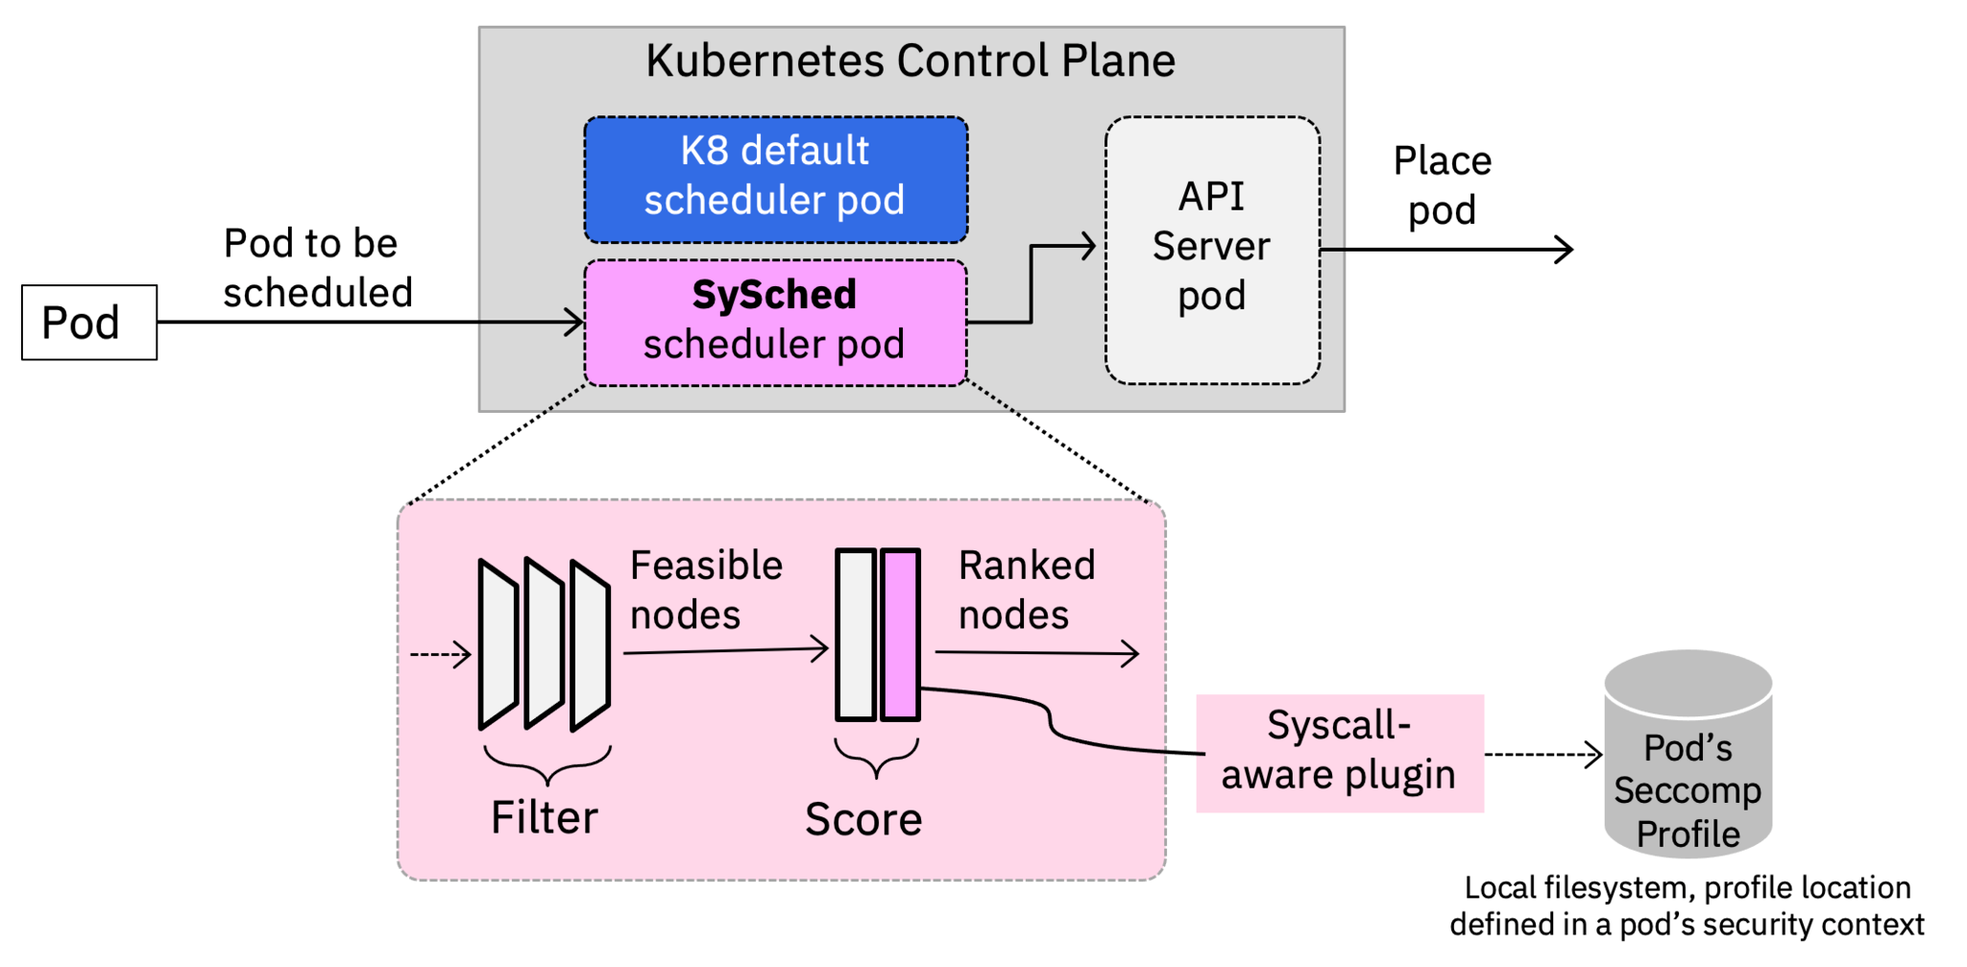
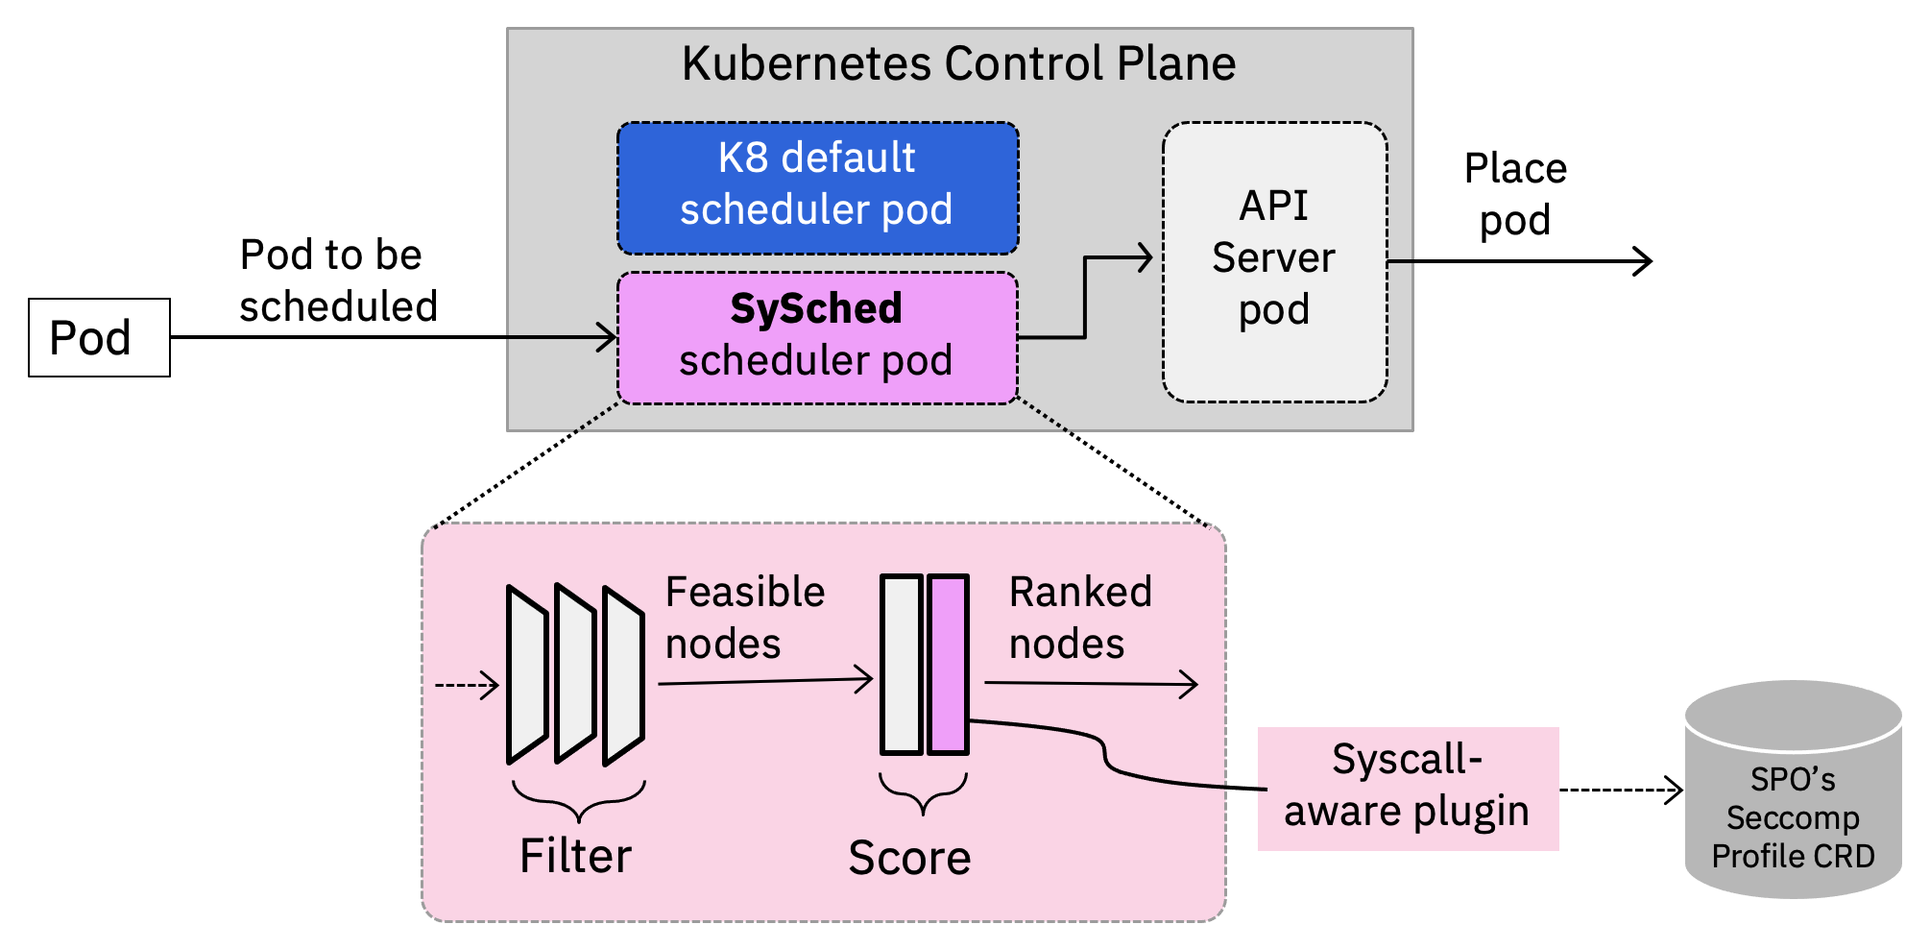
edits to kep

Changed region(s): [[0.1851, 0.4858, 0.9871, 0.9717], [0.0, 0.0, 0.8637, 0.4555], [0.3085, 0.0304, 0.6478, 0.0911]]

diff --git a/kep/399-sysched-scoring/README.md b/kep/399-sysched-scoring/README.md
@@ -2,33 +2,23 @@
 
 ## Summary
 
-We propose the use of pod placement as a way to improve the security of nodes in a cluster. Specifically, we propose a new scheduler scoring plugin (SySched) that enables the ranking of feasible nodes based on the relative risks of pods' system call usage. Key to this risk calculation is the Excess System Call (ExS) metric, which measures the amount of excess system call a pod is exposed to on a given node. The benefits of this approach are the following:
+We propose the use of pod placement as a way to improve the security of nodes in a cluster. Specifically, we propose a new scheduler scoring plugin (SySched) that enables the ranking of feasible nodes based on the relative risks of pods' system call usage. Key to this risk calculation is the Extraneous System Call (ExS) metric &mdash; a metric defined by us &mdash; which measures the amount of excess system call a pod is exposed to on a given node. The benefits of this approach are the following:
 
-1.  reduce the number of victim pods that can be impacted by a "bad" pod
-2.  reduce the number of nodes in a cluster that can be impacted by a "bad" pod
-3.  minimizes the "excess" system calls across all pods on a node and all nodes in a cluster
-4.  minimizes attack surface areas of a node (reduce needed system calls on a node)
+1. reduce the number of victim pods that can be impacted by a "bad" pod, where a "bad" pod uses one or more system calls that are vulnerable and potentially exploitable to compromise the host kernel
+2. reduce the number of nodes in a cluster that can be impacted by a "bad" pod
+3. minimizes the "excess" system calls a pod may experience during its lifecycle, hence reduces needed system calls on a node, which in turns reduces the attack surface areas of a node
 
 
 ## Motivation
 
-Securing  Kubernetes workloads despite the inevitability of vulnerabilities is a critical  task. Particularly devastating are vulnerabilities in the host kernel that are exploitable via system calls to escalate privileges and break out of containment, as demonstrated by the infamous Dirty COW or the recent Dirty Pipe vulnerability. As a result, a pod's security depends on its neighboring pods and their system call usage since pods share a highly-privileged kernel on a host.  Yet cloud providers strive to increase pod density to improve host utilization by multiplexing workloads from different users and tenants on the same set of physical nodes, providing ample opportunities for distrusting containers to become "bad neighbors."
+Securing Kubernetes workloads despite the inevitability of vulnerabilities is a critical task. Particularly devastating are vulnerabilities in the host kernel that are exploitable via system calls to escalate privileges and break out of containment, as demonstrated by the infamous [Dirty COW](https://dirtycow.ninja/) or the recent [Dirty Pipe](https://dirtypipe.cm4all.com/) vulnerability. As a result, a pod's security depends on its neighboring pods and their system call usage since pods share a highly-privileged kernel on a host. Yet cloud providers strive to increase pod density to improve host utilization by multiplexing workloads from different users and tenants on the same set of physical nodes, providing ample opportunities for distrusting containers to become "bad neighbors."
 
- While pod-centric security schemes such as seccomp are necessary, they alone are insufficient. We introduce a practical way to curtail the impact of these types of threats by leveraging a new security-aware pod scheduling scheme that we've developed for Kubernetes to co-locate pods based on their system call usage. So even if such attacks were successful, we show that it would impact fewer victim pods (up to 40% less) on fewer nodes (up to 1/3 less) in the cluster than the existing scheduler.
+While pod-centric security schemes such as seccomp are necessary, they alone are insufficient. We introduce a practical way to curtail the impact of these types of threats by leveraging a new security-aware pod scheduling scheme that we've developed for Kubernetes to co-locate pods based on their system call usage. So even if such attacks were successful, we show that it would impact fewer victim pods (up to 40% less) on fewer nodes (up to 1/3 less) in the cluster than the existing scheduler.
  
 ### Goals
 
-1. No changes to the core scheduler; need only implement the features as a Scoring plugin
-2.  No impact when the scoring plugin is disabled
-3.  When scoring plugin is enabled:
-	-  Works in conjunction with other scoring plugins
-	-  No impact if pod does not have an associated system call profile
-	-  Improve pod security:
-
-4.  Reduce the number of victim pods that can be impacted by a "bad" pod
-5.  Reduce the number of nodes in a cluster that can be impacted by a "bad" pod
-6.  Minimizes the "excess" system calls across all pods on a node and all nodes in a cluster
-7.  Minimizes attack surface areas of a node (reduce needed system calls on a node)
+1. Develop a score plugin to favor nodes, for a given incoming pod, that have low ExS scores, i.e., nodes with pods that have similar system call profiles.
+2. Define ExS metric used by the logic in the score plugin
 
 ### Non-goals
 
@@ -39,35 +29,11 @@ Securing  Kubernetes workloads despite the inevitability of vulnerabilities is a
 
 ## Proposal
 
-### User Stories
+## User Stories
 
-Administrator deploys the scheduler with the SySched scoring plugin enabled. Users may deploy their pod as usual. As pods are scheduled, the pods are automatically placed according to the pod's specified constraints and our security metric discussed above.
-
- #### Story 1
-
-<p align="center">
-<img src="images/example_complete.png" style="width:80%">
-</p>
-
-<p align = "center">
-<b>Figure 1. Scheduling algorithm and pod placement example</b>
-</p>
-
-Figure 1  illustrates how our scoring algorithm works and how pods are placed. The figure shows the placement of six pods (C1, C2, C3, C4, C5,and  C6)  in  two  nodes  (Node 1  and  Node 2).  The  numbers inside a rectangular box for a pod indicate the system calls the pod use, i.e., C1 {1, 2, 3, 5}, C2 {4, 7, 8}, C3 {1, 3, 5, 9}, C4 {2, 5, 6, 8}, C5 {2, 4, 5, 7}, and C6 {2, 7, 8}. Initially, to schedule pod C1, the ExS  scores for both Node 1 and Node 2 are the same (i.e., 0), since there are no pods running on the nodes (Figure 1(a)). Thus, our algorithm randomly picks one of the two nodes, Node 1 in this case, and updates its system call usage list using the system calls of C1 (Figure 1(b)). The ExS  scores for scheduling pods C2 are 7 and 0 for Node 1 and Node 2, respectively (Figure 1(b)). In this case, the scheduling algorithm picks Node 2 since Node 2 has a lower ExS  score. Figure 1(c) shows the updated system call lists for Node 2. This process repeats for all incoming pods. After all pods are placed, the cluster-wide ExS score in this example is 12, i.e., ExS1 is 5 and ExS2 is 7, where 1 and 2 are node numbers.
-
-<p align="center">
-<img src="images/sched4sec_attacksrf.png" style="width:50%">
-</p>
-
-<p align="center">
-<b>Figure 2: Syscall-aware scheduling reduces host attack surfaces</b>
-</p>
-
-Figure 2 highlights the opportunities not only for reducing the exposure to extraneous system calls (i.e., ExS score) but also the node’s attack surface. Imagine an OS with nine total system calls. On such a system, both nodes in Figure 2(a) would require providing access to 89% of system calls for a non-syscall-aware scheduler such as Kubernetes default scheduler. This is in contrast to the placement outcome when our syscall-aware scheduler is used (Figure 2(b)). In that scenario, Node 1 and Node 2 only require maintaining access to 56% and 67% of system calls, respectively.
-
-#### Story 2
-
-Certain system calls might be deemed critical based on current or historical data. In such situations, a weight can be attached to the associated system calls which would let the scheduler further isolate the pods using those critical system calls from other pods.
+1. As a user of the cloud, I would like to be scheduled with neighbors who do not have, or less likely to have, the abilities to compromise my security via the shared kernel on the host.
+2. As a developer, I would like the users of my applications to be rewarded for my conscientious and judicious use of system calls by being scheduled on a node with neighboring applicaitons who are similarly limited in their system call usage, hence reducing the user's chance to being compromised by those neighbors via system call-based host exploits.
+3. As a cloud provider, we want to enable multitenancy but minimize the impact of a compromised or malicious pod on our users. Hence, we want to minimize the number of victim pods and victim nodes in a cluster from some pods exploiting system call-based host exploits.
 
 ### Notes/Constraints/Caveats
 
@@ -78,49 +44,138 @@ Creating a seccomp profile that is inaccurate can result in pod execution failur
 ### Risks and Mitigations
 
 Pods with the same workload might get scheduled on the same set of nodes, potentially impacting performance. Can remedy this by applying existing tainting or anti-affinity policies to spread those pods out.
-  
 
 A security-aware scheduler scoring plugin (SySched) scores a node for an incoming pod by comparing the system call profile of the incoming pod with the system call profiles of existing pods in the node. It aims to co-locate pods with the same or similar system call profile for improving pod security while maintaining a high level of performance.
 
 ## Design Details: Overall architecture
 
-Our plugin utilizes system call profiles of pods obtained through their security contexts in the form of seccomp profiles. Our plugin computes a score for each feasible node by comparing the system call profile of the pod with the system call profiles of the existing pods in the node. Our plugin keeps track of the placements of pods in the entire cluster. To compute the scores, the plugin uses a metric called Extraneous System Call (ExS). The ExS metic captures the system calls that a pod does not need, but is present in the node.  Our plugin then returns the computed normalized ExS scores to be combined with other scores in Kubernetes for ranking nodes. If a pod has no seccomp profile associated with it, then our plugin effectively is a noop. The following figure shows the integration of our plugin with the Kubernetes scheduler.
+SySched utilizes system call profiles of pods obtained through their security contexts in the form of seccomp profiles. It computes a score for each feasible node by comparing the system call profile of the pod with the system call profiles of the existing pods in the node. Our plugin keeps track of the placements of pods and their system call profiles using a lightweight in-memory cache to reduce the cost of querying the API server. To compute the scores, the plugin uses the ExS metric. We define the ExS metric to capture the system calls that a pod does not need, but are present in the node. Our plugin then returns the computed normalized ExS scores to be combined with other scores in Kubernetes for ranking candidate nodes. Figure 1 shows the integration of our plugin with the Kubernetes scheduler.
 
 <p align="center">
 <img src="images/arch.png" style="width:70%">
 </p>
 
 <p align="center">
-<b>Figure 3: Overall architecture</b>
+<b>Figure 1: Overall architecture</b>
 </p>
 
 ### Scheduling Metrics - Extraneous System Call (ExS)
 
-At the heart of SySched is a single-valued score used to quantify the extraneous system call exposure of a pod on a node. Informally, ExS captures the additional system calls accessible on a node that the pod itself does not use. This score reflects the potential “danger” a pod must face when running on the target node as vulnerabilities in these extraneous system calls from neighboring pods can jeopardize its own security. In the following figure, we can obtain the ExS for pod C1, C2, and C3 for a node with a kernel of nine system calls.
+At the heart of SySched is a single-valued score used to quantify the extraneous system call exposure of a pod on a node. Informally, ExS captures the additional system calls accessible on a node that the pod itself does not use. This score reflects the potential “danger” a pod must face when running on the target node as vulnerabilities in these extraneous system calls from neighboring pods can jeopardize its own security. 
+
+For illustrative purpose, we consider a hypothetical node capable of executing nine system calls numbered from 1 to 9 in Figure 2. If we have three pods $P_1$, $P_2$, and $P_3$ in the node with their system call profiles $S_1 = \{1, 2, 3, 5\}$, $S_2 = \{4, 7, 8\}$, and $S_3 = \{1, 3, 5, 9\}$ respectively, we can obtain the ExS for pod $P_1$, $P_2$, and $P_3$ as follows.
+
+> ExS for $P_1 = (S_1 \cup S_2 \cup S_3) - S_1 = \{1, 2, 3, 4, 5, 7, 8, 9\} - \{1, 2, 3, 5\} = \{4, 7, 8, 9\}$
+
+> ExS for $P_2 = (S_1 \cup S_2 \cup S_3) - S_2 = \{1, 2, 3, 4, 5, 7, 8, 9\} - \{4, 7, 8\} = \{1, 2, 3, 5, 9\}$ 
+
+> ExS for $P_3 = (S_1 \cup S_2 \cup S_3) - S_3 = \{1, 2, 3, 4, 5, 7, 8, 9\} - \{1, 3, 5, 9\} = \{2, 4, 7\}$ 
+
 
 <p align="center">
 <img src="images/exs.png" style="width:60%">
 </p>
 
 <p align="center">
-<b>Figure 4: Example ExS score calculation</b>
+<b>Figure 2: Example ExS score calculation</b>
 </p>
+
+To express the computation of the ExS score as mathematical equations, let assume that all system calls in a node are numbered as $1, ..., M$. Let $S_i^n$ represent the binary vector of enabled system calls for pod $i$ on node $n$: $S_i^n = [s_1, s_2, ..., s_M]$, where $s_k = 1$ when the $k$-th system call is enabled, and $s_k = 0$ otherwise. Practically, $S_i^n$ mirrors a typical **seccomp** policy for the corresponding pod.
+
+To find the systems calls that are enabled a given node $n$, we perform a logical $or$ (union) of the enabled system calls across all pods within that node:  $$S^n = \bigcup_i S_i^n$$ 
+
+We can now compute the vector, $E_i^n = [e_1^n, e_2^n, ..., e_M^n]$, which represents the extraneous systems calls for pod $i$ on node $n$: $$E_i^n = S_i^n \oplus S^n$$
+
+### Scheduling Illustrative Example
+
+Figure 3 illustrates how our scoring impacts placement decisions. To make the illustration simple, we consider two feasible nodes (Node 1 and Node 2) and the ExS score as the sole factor for ranking the feasible nodes. However, in reality, our normalized ExS scores <!--(i.e., reversed scores by subtracting them from maxPriority) --> are combined with other plugin scores to rank feasible nodes. The figure shows the placement of three pods $(P_1$, $P_2$, and $P_3)$ in Node 1 and Node 2. The numbers inside a pod indicate the system call profile of the pod, i.e., the profile for $P_1$ is $\{1, 2, 3, 5\}$, $P_2$ is $\{4, 7, 8\}$, and $P_3$ is $\{1, 3, 5, 9\}$. 
+
+Initially, to schedule pod $P_1$, the ExS  scores for both Node 1 and Node 2 are the same (i.e., 0), since there are no pods running on the nodes (Figure 3(a)). Thus, we randomly pick one of the two nodes, Node 1 in this case, and updates Node 1's system call usage list using $P_1$'s system call profile (Figure 3(b)). When pod $P_2$ arrives to be scheduled, our plugin computes the ExS scores 7 and 0 for $P_2$ w.r.t. Node 1 and Node 2, respectively (Figure 3(b)). In this case, the plugins ranked Node 2 over Node 1 since Node 2 has a lower ExS  score (i.e., higher normalized score). Figure 3(c) shows the updated system call lists for Node 2. This process repeats for all incoming pods. After all pods are placed, the cluster-wide ExS score in this example is 12, i.e., $ExS_1$ is 5 and $ExS_2$ is 7, where 1 and 2 are node numbers.
+
+<p align="center">
+<img src="images/example_complete.png" style="width:50%">
+</p>
+
+<p align = "center">
+<b>Figure 3. Scheduling algorithm and pod placement example</b>
+</p>
+
+Figure 3 also highlights the opportunities not only for reducing the exposure to extraneous system calls (i.e., ExS score) but also the node’s attack surface. If $P_3$ had been scheduled on Node 2 instead of Node 1, then Node 2 would have a total of 7 system calls "open" $(1,3,4,5,7,8,9)$, instead of only 3 system calls under the SySched approach. 
 
 ### Scheduling Plugin
 
-We developed a new plugin to implement the scoring extension API point in the Kubernetes scheduler while leaving other filters and scoring plugins intact. We leverage existing filtering and scoring operations of the Kubernetes scheduler to handle other aspects of pod placement such as spreading the pods and ensuring resource availability.
+There are two main components of our plugin: 1) a lightweight in-memory cache that is kept synchronize with pod events in order to keep an up-to-date node to pod mapping in the cluster, and 2) mechanisms for retrieving the system call sets used by pods for computing the ExS scores. The in-memory cache reduces the cost of querying the API server for each pod scheduling event. We obtain the system call profiles for pods from their seccomp profiles. Our plugin leverages the Kubernetes sigs community-developed [Security Profiles Operator](https://github.com/kubernetes-sigs/security-profiles-operator) (SPO) that creates Custom Resource Definitions (CRDs) for seccomp profiles. If a pod has no seccomp profile associated with it, then our plugin simply returns, effectively a no-op.
 
- There are two main components of our plugin: 1) a lightweight in memory state store that holds the up-to-date node to pod mapping and 2) mechanisms for retrieving the system call sets used by pods and for computing the ExS scores. The state store is implemented as a thread that listens to events of a pod’s lifecycle, e.g., creation, stop, destruction, run, etc. Using these event notifications, this thread tracks where pods are currently running in a cluster. When a pod stops running on a node, our plugin also removes it from its internal mapping. While the entire state of pod placement in a cluster can be retrieved dynamically by querying the API server, this can be an expensive task to do per pod scheduling event, hence we choose to maintain this state internally in our scheduler.
+#### **How the Scheduler gets access to pods' system call profiles**
 
-### System call Profiles
+We assume that the system call profiles of pods have explicitly been made available to the scheduler via the SPO. We rely on the SPO to generate and bind seccomp profile CRDs to the pods. The scheduler uses the API server to access a pod's seccomp profile CRD and parses the seccomp profile CRD to obtain the list of system calls for a pod. 
 
-**How the Scheduler gets access to pods' system call profiles**
+An example of an SPO's seccomp profile CRD:
 
-We assume that the system call profiles of pods have explicitly been made available to the scheduler via the Security Profile Operator (SPO). The scheduler can use the API server to access a pod's seccomp profile via the SPO's CRD.
+```
+---
+apiVersion: security-profiles-operator.x-k8s.io/v1beta1
+kind: SeccompProfile
+metadata:
+  name: nginx-seccomp
+  namespace: scheduler-plugins
+spec:
+  defaultAction: SCMP_ACT_LOG
+  architectures:
+  - SCMP_ARCH_X86_64
+  syscalls:
+  - action: SCMP_ACT_ALLOW
+    names:
+    - recvmsg
+    - fchdir
+    - sendfile
+    - getdents64
+    - setsockopt
+    - recvfrom
+    - sigaltstack
+    - fstatfs
+    - umask
+    - getegid
+    - read
+	...
+```
 
-**Generating system call profile with Security Profile Operator (SPO)**
+An example of pod's security context specifying the associated seccomp profile:
 
-The Kubernetes sigs community developed the Kubernetes [Security Profiles Operator](https://github.com/kubernetes-sigs/security-profiles-operator) that creates Custom Resource Definitions (CRDs) for seccomp profiles. One can manually create a seccomp profile CRD for a pod by specifying the allowed or denied system call list in the CRD's yaml file. Alternatively, the operator can also be used to automate generating the seccomp profile. In the end, the operator creates the CRD and provides a relative path where the actual json file for the CRD is stored. One can then update the pod's security context using the relative path. Optionally, SPO can also automate binding the seccomp profile to a pod. 
+```
+...
+    spec:
+      securityContext:
+        seccompProfile:
+          type: Localhost
+          localhostProfile: operator/scheduler-plugins/nginx-seccomp.json
+...
+```
+
+To further elaborate, when our plugin receives an incoming pod to score, the plugin first obtains the namespace and the SPO seccomp profile CRD name(s) for each container in the pod. The seccomp profile CRD name is gotten either from the Annotations field or the security context field of a pod's metadata. The example below shows a pod in the *default* namespace with two containers with seccomp profile CRDs as *localhost/operator/default/nginx-seccomp.json* and *localhost/operator/default/proftpd-seccomp.json*. The plugin then reads all the seccomp profile CRDs via the API server and combines all the system calls into the system call set for the pod.
+
+If a pod does not have a security context field or SPO annotations, then our plugin simply returns zero (0) as the ExS score for the target node.
+
+```
+Name:         multi-container-pod-bdc58d9fb-l686s
+Namespace:    default
+Priority:     0
+Node:         mynode-2/192.168.60.12
+Start Time:   Tue, 16 Aug 2022 23:14:52 -0500
+Labels:       app=multi-container-pod
+              pod-template-hash=bdc58d9fb
+Annotations:  cni.projectcalico.org/containerID: 7d20550c2130035c2e5e67f1abd0ea9d7a370ca9bdb265880651a2295e6ccd4c
+              cni.projectcalico.org/podIP: 20.96.25.165/32
+              cni.projectcalico.org/podIPs: 20.96.25.165/32
+              container.seccomp.security.alpha.kubernetes.io/nginx: localhost/operator/default/nginx-seccomp.json
+              container.seccomp.security.alpha.kubernetes.io/proftpd: localhost/operator/default/proftpd-seccomp.json
+Status:       Running
+IP:           20.96.25.165
+IPs:
+  IP:           20.96.25.165
+Controlled By:  ReplicaSet/multi-container-pod-bdc58d9fb
+...
+```
 
 ### Known limitations
 
@@ -159,3 +214,4 @@ The Kubernetes sigs community developed the Kubernetes [Security Profiles Operat
 -   We have implemented this System Call-aware Scheduler (SySched) plugin for Kubernetes v1.23 and have evaluated the security benefits and performance impact to the cluster.
 -   We have presented to the Scheduling-SIG on April 7th, 2022
 -   Used the Security Profiles Operator to generate system call profiles for pods and bind them to the pods as seccomp filters
+-   We have wrote client code in the plugin to access the SPO seccomp profile CRDs
